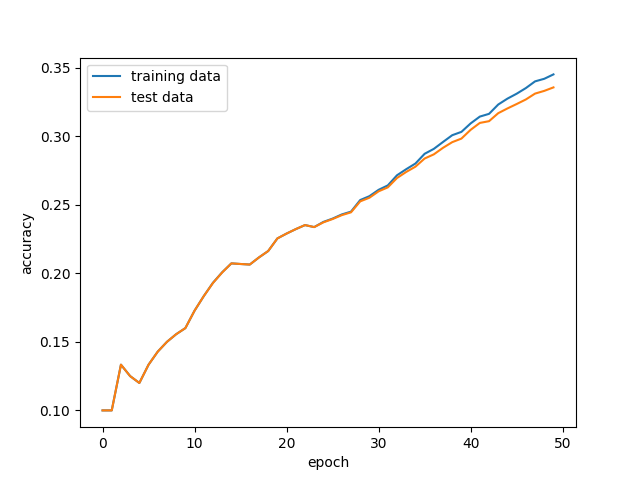
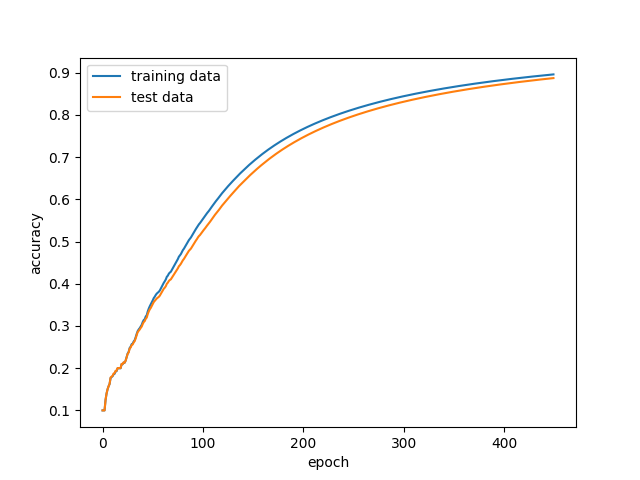
finished adding logic to tune nn parameters via command line -- epoch of 400 leads to test accuracy of 87%

diff --git a/neuralnet.py b/neuralnet.py
@@ -14,7 +14,8 @@ class NeuralNet(object):
 	             training_labels_matrix,
 	             test_data,
 	             test_labels_matrix,
-	             epochs):
+	             epochs,
+	             print_details):
 
 		"""
 
@@ -67,6 +68,7 @@ class NeuralNet(object):
 		self.training_error_history = np.zeros(epochs)
 		self.test_accuracy_history = np.zeros(epochs)
 		self.test_error_history = np.zeros(epochs)
+		self.print_details = print_details
 
 		if self.hidden_layer_weights.shape[0] != self.training_data.shape[1]:
 			print("weight rows: ", self.hidden_layer_weights.shape[0])
@@ -94,10 +96,11 @@ class NeuralNet(object):
 				_training_target = (np.where(self.training_labels[element_index] == 0.9)[0])[0]  # =[t] without last [0]
 				self.training_confusion_matrix[_training_target, _training_actual] += 1
 				self.training_error_history[i] = putil.sum_squared_error(_training_target, _training_actual)
-				print("train actual output activations ", training_output_activations[element_index], "\n")
-				print("train actual: ", _training_actual, "\n")
-				print("train target: ", _training_target, "\n")
-				print("train label: ", self.training_labels[element_index])
+				if self.print_details:  #TODO: remove eventually
+					print("train actual output activations ", training_output_activations[element_index], "\n")
+					print("train actual: ", _training_actual, "\n")
+					print("train target: ", _training_target, "\n")
+					print("train label: ", self.training_labels[element_index])
 
 			test_output_activations = self.forward_propogate_all(self.test_data)
 			for element_index in range(test_output_activations.shape[0]):
@@ -106,8 +109,6 @@ class NeuralNet(object):
 				# print("test actual: ", _test_actual, "\n")
 				# print("test target: ", _test_target,"\n")
 				# print("test label: ", self.test_labels[element_index])
-
-
 				self.test_confusion_matrix[_test_actual, _test_target] += 1
 
 			_curr_training_accuracy = putil.compute_accuracy(self.training_confusion_matrix)
@@ -115,7 +116,8 @@ class NeuralNet(object):
 
 			self.training_accuracy_history[i] = _curr_training_accuracy
 			self.test_accuracy_history[i] = _test_accuracy
-			print("finished epoch ", i)
+			if i % 50 == 0:
+				print("finished epoch ", i)
 		return self.epochs, _curr_training_accuracy, _test_accuracy
 
 	def display_prediction_history(self):

diff --git a/main.py b/main.py
@@ -10,25 +10,27 @@ def main():
 	parser.add_argument('--binary_creator', '-bc', help='create and classify binary set', action='store_true')
 	parser.add_argument('--hamming_data_generator', '-hdgen', help='creates hamming distance data',
 	                    action='store_true')
-	parser.add_argument('--hamming dist runner', '-hdr', help='runs a classifier that predicts hamming distance '
+	parser.add_argument('--hamming_dist_runner', '-hdr', help='runs a classifier that predicts hamming distance '
 	                                                          'count', action='store_true')
-	parser.add_argument('--momentum', '-m', action='store_const', const=0.9)
-	parser.add_argument('--learning_rate', '-rl', action='store_const', const=0.01)
-	parser.add_argument('--hidden_node_count', '-hn', action='store_const', const=20)
-	parser.add_argument('--epoch', '-e', action='store_const', const=50)
+	parser.add_argument('--momentum', '-m', type=float, default=0.9)
+	parser.add_argument('--learning_rate', '-rl', type=float, default=0.01)
+	parser.add_argument('--hidden_node_count', '-hn', type=int, default=20)
+	parser.add_argument('--epochs', '-e', type=int, default=50)
+	parser.add_argument('--print_details', '-pd', action='store_true')
 	args = parser.parse_args()
 
 
 	# if sys.argv.__contains__("-bc"):
 	print(args)
-	if args["-bc"]:
+	print(args.binary_creator)
+	if args.binary_creator:
 		random_decimal = random.randrange(256, 516)
 		binarycreator.create_and_classify_binary_set("rgflclassifier/random-binary.txt", random_decimal)
 
-	if args["-hdgen"]:
+	if args.hamming_data_generator:
 		hdg.create_data(10, 1000, "hammingdistanceclassifier/hammingdata.csv")
 
-	if args["-hdr"]:
+	if args.hamming_dist_runner:
 		hdcrunner.run(args)
 
 

diff --git a/hammingdistanceclassifier/hdcrunner.py b/hammingdistanceclassifier/hdcrunner.py
@@ -14,11 +14,12 @@ def run(args):
 	# hidden_nodes_hundred = 100
 	# learning_rate = 0.01
 
-	momentum_default = args['-m']
-	epochs = args['-e']
-	hidden_nodes = args['-hn']
-	learning_rate = args['-lr']
+	momentum_default = args.momentum
+	epochs = args.epochs
+	hidden_nodes = args.hidden_node_count
+	learning_rate = args.learning_rate
 
+	print(momentum_default, " Momentum")
 	control_str = np.genfromtxt('hammingdistanceclassifier/control_str.csv')
 	print(control_str)
 	class_count = control_str.shape[0]
@@ -65,7 +66,7 @@ def run(args):
 		test_labels_matrix[j][_test_target_output] = 0.9
 
 	run_experiment(hidden_nodes, learning_rate, momentum_default, class_count + 1, train_data,
-	               training_labels_matrix, test_data, test_labels_matrix, epochs, experiment_name="nn1")
+	               training_labels_matrix, test_data, test_labels_matrix, epochs, "nn1", args)
 
 
 #TODO: shuffle data
@@ -109,9 +110,10 @@ def run_experiment(hidden_nodes,
 				   test_data,
 				   test_labels_matrix,
 				   epochs,
-				   experiment_name):
+				   experiment_name,
+                   args):
 	nn = NeuralNet(hidden_nodes, learning_rate, momentum, output_nodes, training_data, training_labels_matrix,
-				   test_data, test_labels_matrix, epochs)
+				   test_data, test_labels_matrix, epochs, args.print_details)
 
 	# print("training data shape", training_data.shape)  # TODO: remove
 	# print("training labels matrix shape: ", training_labels_matrix.shape)
